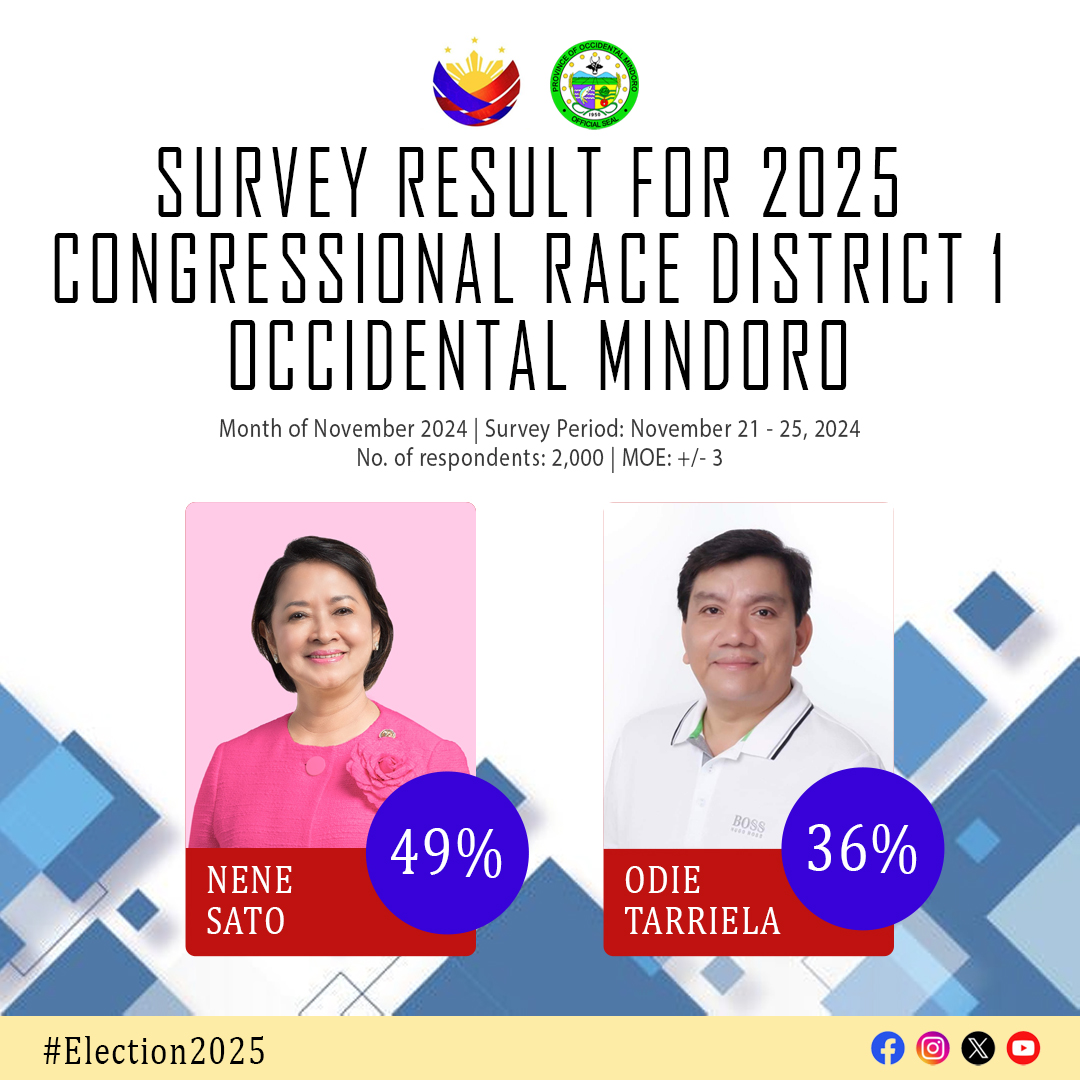
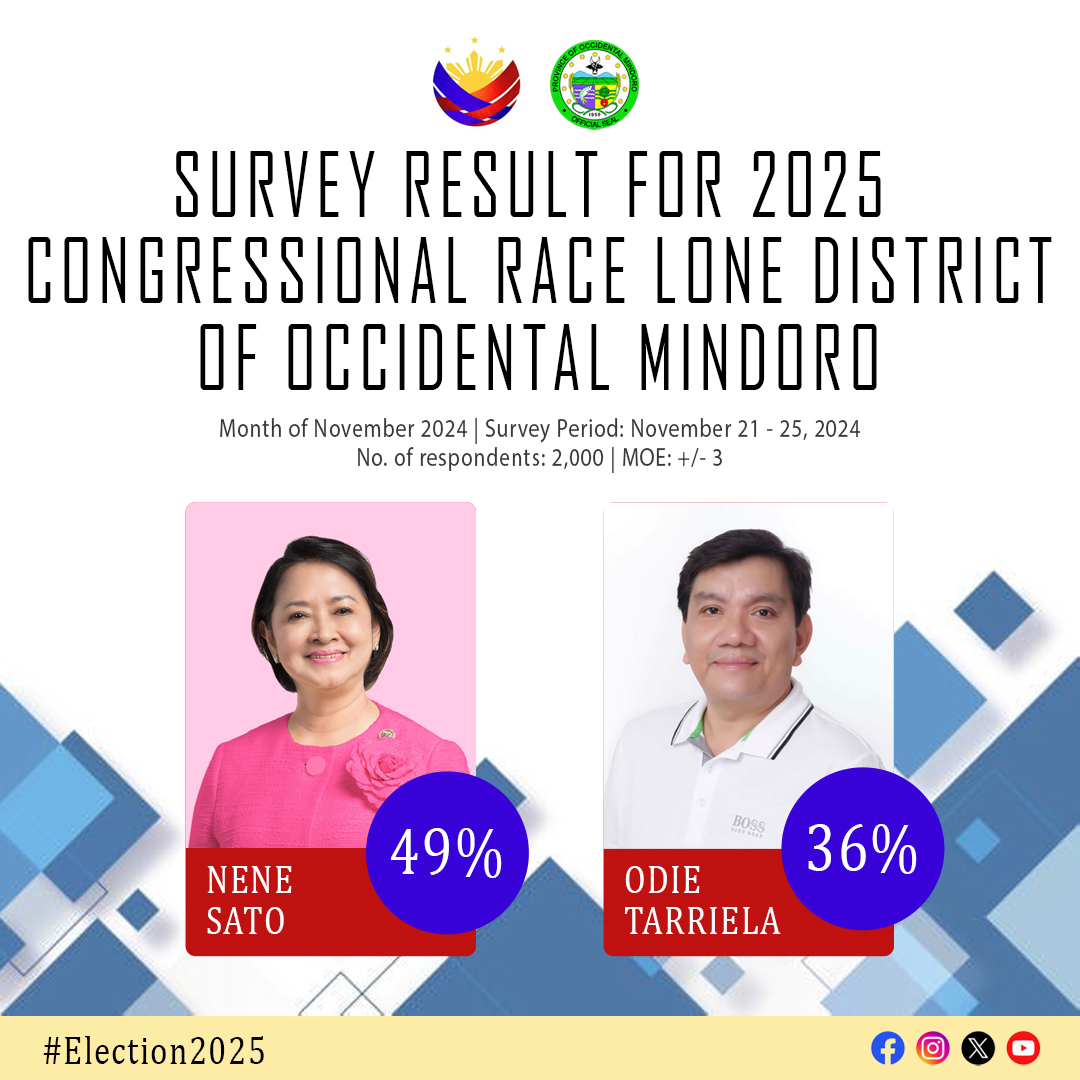
UP

Changed region(s): [[0.0, 0.1222, 0.9778, 0.3667]]

diff --git a/LoneDistrictOccidentalMindoro.html b/LoneDistrictOccidentalMindoro.html
@@ -3,7 +3,7 @@
 <head>
     <meta charset="UTF-8">
     <meta name="viewport" content="width=device-width, initial-scale=1.0">
-    <title>Survey | Occidental Mindoro</title>
+    <title>Survey |Lone District Occidental Mindoro</title>
     <link rel="stylesheet" href="style.css">
     <meta property="og:image" content="img/articleimg/survey_occimin.jpg">
 
@@ -81,7 +81,7 @@
         <div class="article-container">
             <!-- CATEGORY AND HEADLINE-->
             <div class="category">Politics</div>
-            <h1 class="headline">POLL RESULTS NG CONGRESSIONAL RACE SA DISTRICT 1, OCCIDENTAL MINDORO: SATO, NANGUNGUNA LABAN KAY TARIELLA</h1>
+            <h1 class="headline">POLL RESULTS NG CONGRESSIONAL RACE SA LONE DISTRICT, OCCIDENTAL MINDORO: SATO, NANGUNGUNA LABAN KAY TARIELLA</h1>
             <div class="date">
                 <span><img src="img/logos/lets-icons--date-fill.svg" alt=""></span>
                 <span>November 27, 2024</span>
@@ -106,7 +106,7 @@
                 <img src="img/articleimg/survey_occimin.jpg" alt="">
                 
                 <div class="content">
-                    <p>Sa pinakahuling isinagawang survey sa District 1 ng Occidental Mindoro, partikular sa MAPSA area na binubuo ng apat na bayan, ang bayan ng Mamburao (Capital), Paluan, Sta. Cruz at Abra de Ilog lumabas na nangunguna si dating Kongresista Josephine "Nene" Ramirez Sato laban sa kasalukuyang Congressman Leody "Ohdie" F. Tariella. Ang survey ay nilahukan ng 2,000 rehistradong botante at may margin of error na ±3%.</p> <br>
+                    <p>Sa pinakahuling isinagawang survey sa Lone District ng Occidental Mindoro, partikular sa MAPSA area na binubuo ng apat na bayan, ang bayan ng Mamburao (Capital), Paluan, Sta. Cruz at Abra de Ilog lumabas na nangunguna si dating Kongresista Josephine "Nene" Ramirez Sato laban sa kasalukuyang Congressman Leody "Ohdie" F. Tariella. Ang survey ay nilahukan ng 2,000 rehistradong botante at may margin of error na ±3%.</p> <br>
 
                     <p>Base sa resulta, nakakuha si Sato ng 49% na suporta mula sa mga respondents, samantalang si Tariella ay nasa 36%. Ang natitirang 15% ay nagsabing hindi pa sila tiyak kung sino ang kanilang iboboto. Malaki ang agwat ng boto sa pagitan ng dalawang kandidato, na nagiging pabor para kay Sato.</p> <br>
 
